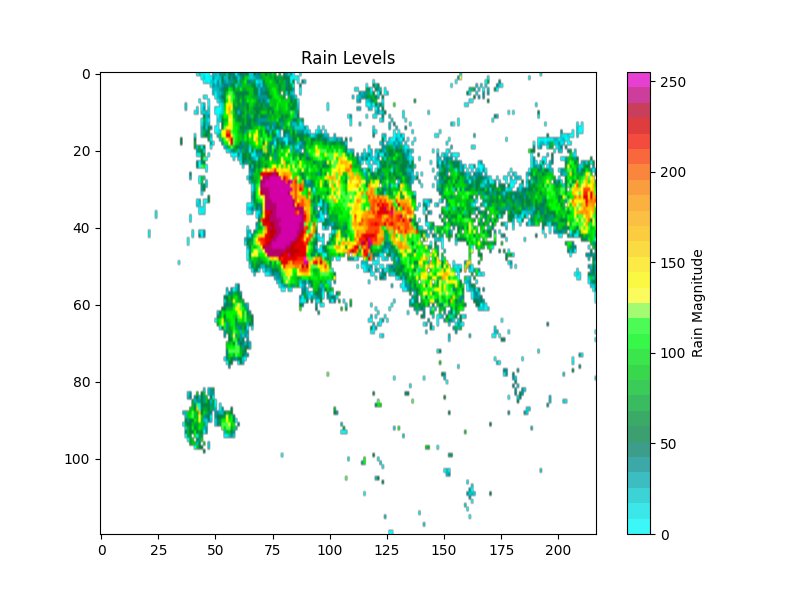
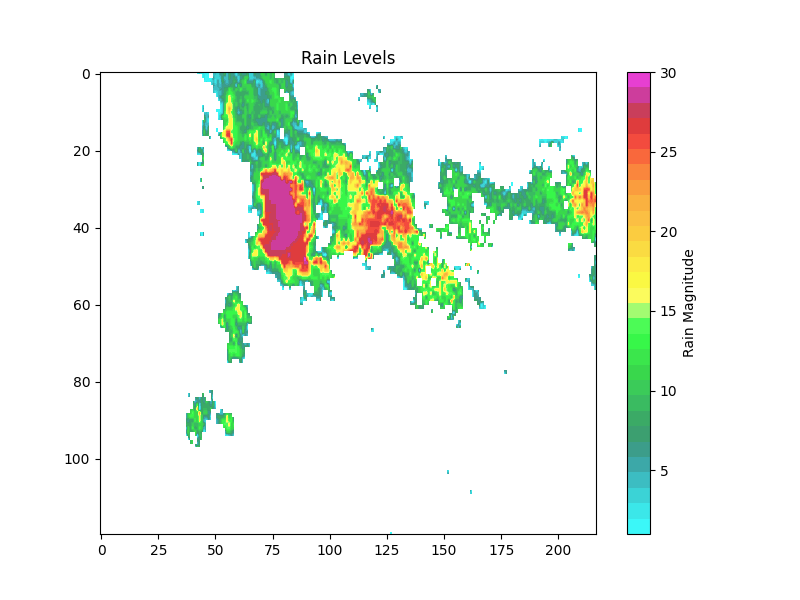
integrated AutoColormap to compute magnitude

diff --git a/python/convert_color_array.py b/python/convert_color_array.py
@@ -22,13 +22,11 @@ class AutoColormap:
 with open("extracted_colors.json", "r") as file:
     extracted_colors = json.load(file)
 extracted_colors.reverse()
-
 # Convert RGB array to Matplotlib colormap
 cmap = ListedColormap(np.array(extracted_colors) / 255.0)
 
 url = "http://www.weather.gov.sg/files/rainarea/50km/v2/dpsri_70km_2024052514000000dBR.dpsri.png"
 response = requests.get(url)
-
 if response.status_code == 200:
     image_bytes = response.content
 else:
@@ -39,7 +37,7 @@ image_b = np.array(image_bytes)
 image = Image.open(io.BytesIO(image_bytes))
 # Convert image to numpy array
 rain_data = np.array(image)
-print(rain_data[1])
+# print(rain_data[1,1])
 # Map rain data to colormap
 
 # # Create a ScalarMappable object with the colormap and normalization
@@ -49,19 +47,24 @@ print(rain_data[1])
 # rain_values = np.linspace(0, len(extracted_colors) - 1, len(extracted_colors))
 
 auto_cmap = AutoColormap(extracted_colors)
+magnitude = np.empty([rain_data.shape[0],rain_data.shape[1]])
 # Iterate over each pixel in the rain data and map RGB values to rain values
 for i in range(rain_data.shape[0]):
   for j in range(rain_data.shape[1]):
-      rgb_value = rain_data[i, j]
-      print(rgb_value)
-      magnitude = auto_cmap.to_magnitude(rgb_value)
-      # scalar_value = np.argmax(np.all(rgb_value == np.array(extracted_colors), axis=1))
-      # rain_value = rain_values[scalar_value]
-      print(f"Pixel ({i}, {j}): Rain Value: {magnitude}")
+      rgb_value = rain_data[i, j][0:3]
+      if sum(rgb_value) == 0:
+          magnitude[i,j] = np.NaN
+      else:
+          magnitude[i,j] = auto_cmap.to_magnitude(rgb_value)
+        #   print(f"Pixel ({i}, {j}): RGB: {rgb_value}, Rain Value: {magnitude}")
+
+
+      
 
 # Plot the colormap and display the scalar values on the colorbar
 plt.figure(figsize=(8, 6))
-plt.imshow(rain_data, cmap=cmap, aspect='auto')
+# plt.imshow(rain_data, cmap=cmap, aspect='auto')
+plt.imshow(magnitude, cmap=cmap, aspect='auto')
 plt.colorbar(label='Rain Magnitude')
 plt.title('Rain Levels')
 plt.show()
